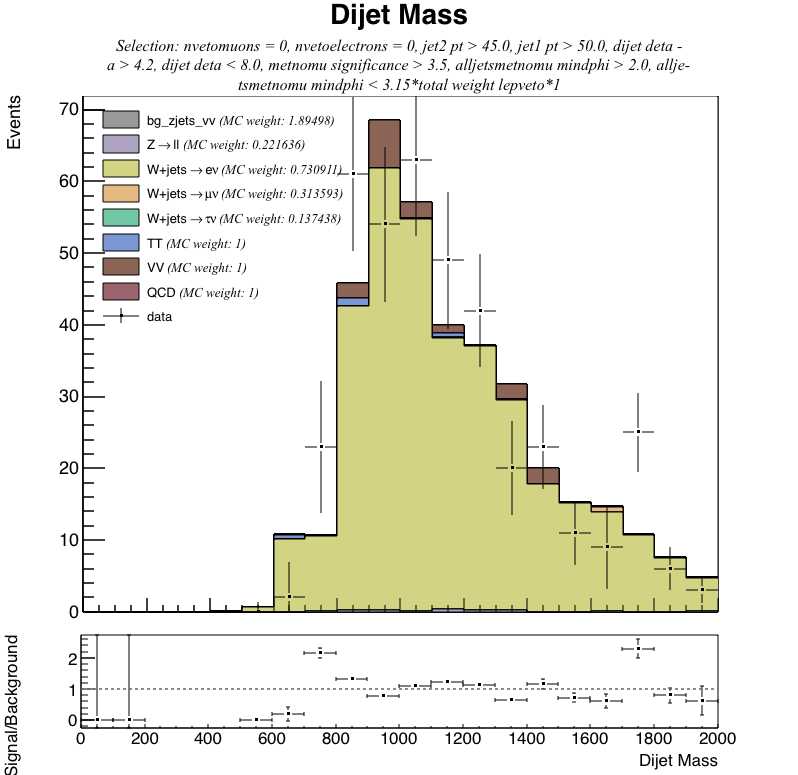
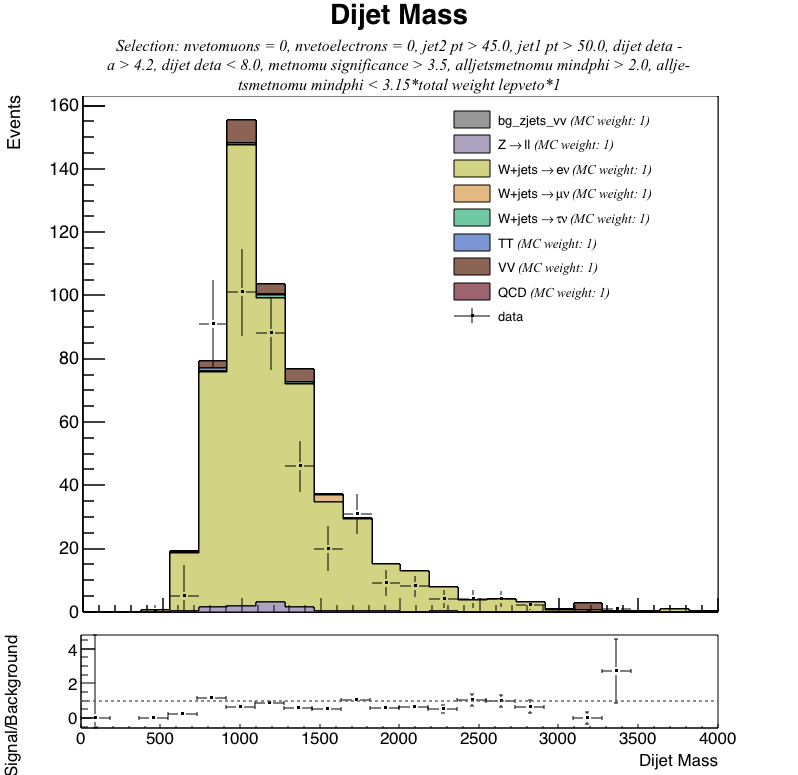
plots

diff --git a/src/super_vars.cpp b/src/super_vars.cpp
@@ -11,7 +11,7 @@ SuperVars::SuperVars()
                                         "18.0","75","10", "GeV^{0.5}");
   alljetsmetnomu_mindphi = new Variable("alljetsmetnomu_mindphi","All Jets - MET Min. #Delta#phi (No Muons)",
                                         "0.0","3.15","2.0","","40","5", "");
-  dijet_M                = new Variable("dijet_M","Dijet Mass","0.0","2000.0","800.0","","20","10", "GeV");
+  dijet_M                = new Variable("dijet_M","Dijet Mass","0.0","6000.0","800.0","","20","10", "GeV");
   metnomuons             = new Variable("metnomuons","MET (No Muons)","0.0","400.0","120.0","",
                                         "50","5", "GeV");
   jet1_pt                 = new Variable("jet1_pt","Jet1pt","0.0","","50.0","","30","", "GeV");
@@ -42,7 +42,7 @@ SuperVars::SuperVars()
   jet2_eta_parked = new Variable("jet2_eta","jet2_eta", "-20.0", "5.0", "-10.0", "4.7","133","1","");
   jet1_pt_parked  = new Variable("jet1_pt","Jet1pt","0.0","","50.0","","30","", "GeV");
   jet2_pt_parked  = new Variable("jet2_pt","Jet2pt","0.0","","45.0","","30","", "GeV");
-  dijet_M_parked  = new Variable("dijet_M","Dijet Mass","0.0","8000","0.0","5000","60","1", "GeV");
+  dijet_M_parked  = new Variable("dijet_M","Dijet Mass","0.0","9000","0.0","4000","50","1", "GeV");
   metnomuons_parked = new Variable("metnomuons","MET (No Muons)","0.0","","90.0","", "50","5", "GeV");
   metnomu_significance_parked = new Variable("metnomu_significance","MET Significance (No Muons)",
                                           "3.0","","4.0","","50","10", "");

diff --git a/src/mva_analysis.cpp b/src/mva_analysis.cpp
@@ -239,7 +239,7 @@ void MVAAnalysis::get_plots_varying_params(std::vector<DataChain*> bg_chains, in
 	HistoPlot::plot_control_testTree(bg_to_train, control_var, mva_output_test_chain,
 		output_data_chain, output_bg_chains,
 		&vars, "tauv_control.png", wjets_tauv_ch->lep_sel, "");
-////// cut
+/*
 	HistoPlot::plot_control_testTree(bg_to_train, control_var2, mva_output_test_chain,
 		output_data_chain, output_bg_chains,
 		&vars, "zll_control_cut.png",
@@ -257,7 +257,7 @@ void MVAAnalysis::get_plots_varying_params(std::vector<DataChain*> bg_chains, in
 		output_data_chain, output_bg_chains,
 		&vars, "tauv_control_cut.png", wjets_tauv_ch->lep_sel, "");
 
-
+*/
 /*
 output_bg_chains[1]->chain->Draw("output>>test(100,-1.25,1.5)", "((output>0.1)&&(classID==0)&&(nselelectrons == 1))*total_weight_lepveto");
 TH1F* test = (TH1F*) gDirectory->Get("test");

diff --git a/src/super_chains.cpp b/src/super_chains.cpp
@@ -5,7 +5,7 @@ SuperChains::SuperChains()
   bg_zll        = new DataChain(z_ll, z_ll_label, z_ll_legend, "(nselmuons == 2)&&(m_mumu>60)&&(m_mumu<120)");
   bg_wjets_ev   = new DataChain(wjets_ev, wjets_ev_label, wjets_ev_legend, "(nselelectrons == 1)");
   bg_wjets_muv  = new DataChain(wjets_muv, wjets_muv_label, wjets_muv_legend, "(nselmuons == 1)");
-  bg_wjets_tauv = new DataChain(wjets_tauv, wjets_tauv_label, wjets_tauv_legend, "(nvetomuons==0)&&(nvetoelectrons==0)&&(ntaus == 1)");
+  bg_wjets_tauv = new DataChain(wjets_tauv, wjets_tauv_label, wjets_tauv_legend, "(ntaus == 1)");
   bg_top        = new DataChain(top, top_label, top_legend, "");
   bg_vv         = new DataChain(vv, vv_label, vv_legend, "");
   bg_zjets_vv   = new DataChain(zjets_vv, zjets_vv_label, zjets_vv_legend, "");

diff --git a/src/histo_plot.cpp b/src/histo_plot.cpp
@@ -285,8 +285,8 @@ void HistoPlot::plot_control_testTree(int bg_trained, Variable* mva_output, Data
   ////////////////////////////////////////////////////////////////////////////////////////////////////////////////////////////////////
   //step 2: create background histo
   //step 2.1: get zjets mc weight
-   // don't need to double the trained bg in mc weights becauase this takes in test + train trees
-  std::vector<double> mc_weights_vector = mc_weights(data, bg_chains, mva_output, true, NULL, mva_cut);
+  double mc_weights_arr[] = {1, 1, 1, 1, 1, 1, 1, 1};
+  std::vector<double> mc_weights_vector (mc_weights_arr, mc_weights_arr + sizeof(mc_weights_arr) / sizeof(mc_weights_arr[0]));  
 
   double trained_mc_weight = mc_weights_vector[bg_trained];
 

diff --git a/src/analysis.cpp b/src/analysis.cpp
@@ -321,7 +321,7 @@ const char* data_legend = "data";
   std::vector<const char*> NCycles (NCycles_arr, NCycles_arr +
                                        sizeof(NCycles_arr)/sizeof(const char*));
 
-  const char* HiddenLayers_arr[] = {"20,40", "5,10", "5", "10", "20", "50", "100", "2,2", "5,5", "10,10", 
+  const char* HiddenLayers_arr[] = {"2", "5,10", "5", "10", "20", "50", "100", "2,2", "5,5", "10,10", 
                       "20,20", "50,50", "5,10,20", "5,10", "2,4", "4,8"}
 //"20", "5", "50", "100", "20,20", "5,5", "10,10","5,10,15,20", "100","50,50,50", 
                                     /*, "50", "100", "10,10","10,10,10",
